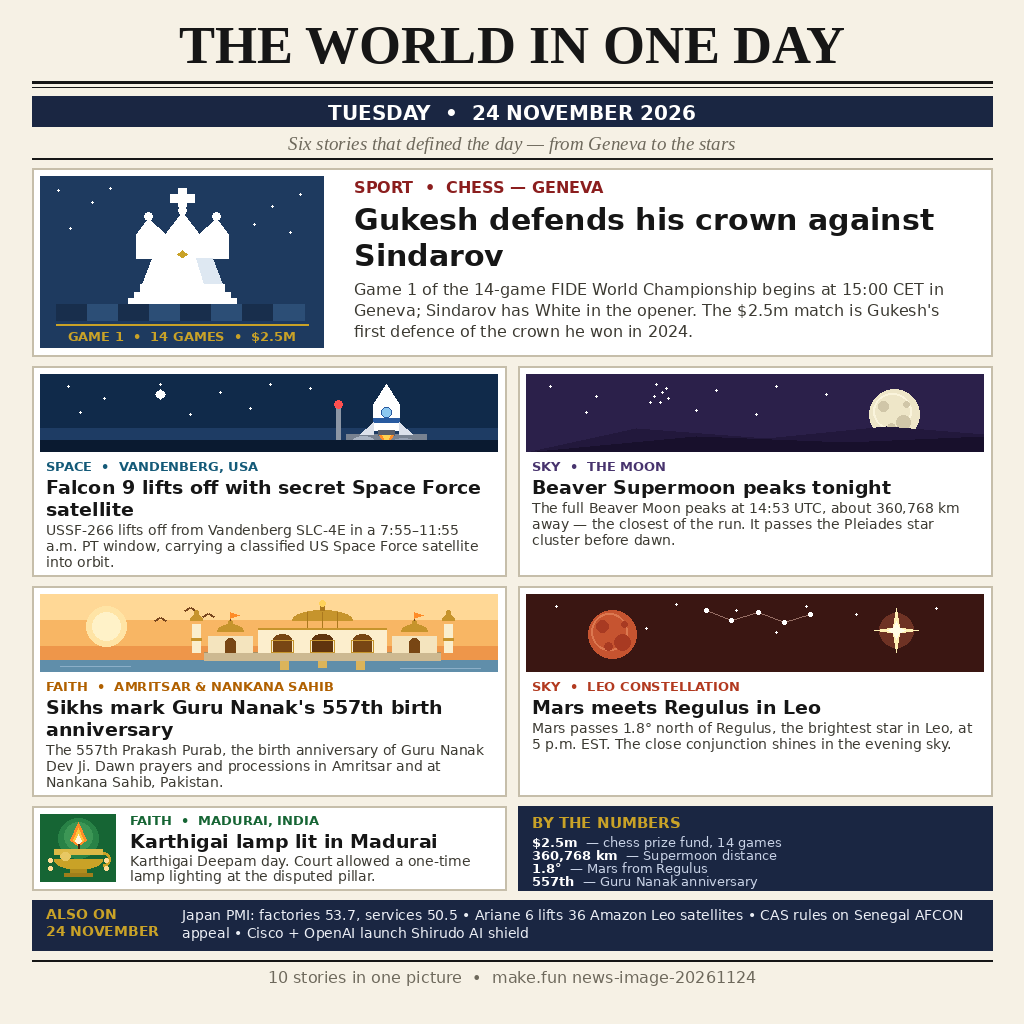
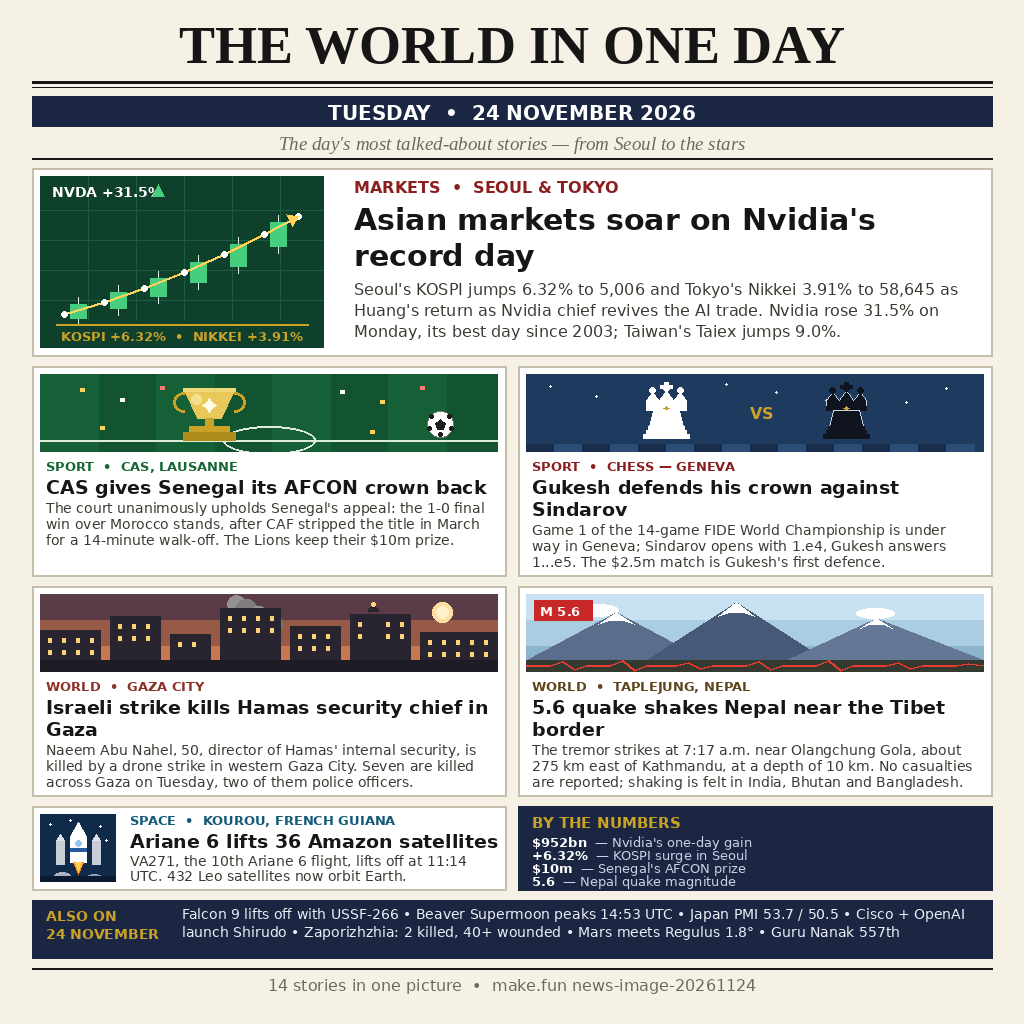
Add news-image-24nov-makefun

Changed region(s): [[0.0312, 0.125, 0.9688, 0.9688]]

diff --git a/main.ts b/main.ts
@@ -21,6 +21,19 @@ if (!png.subarray(0, 8).equals(SIGNATURE)) {
   throw new Error("entry.png is not a PNG file");
 }
 
+// A valid PNG header needs at least 33 bytes: the 8-byte signature plus
+// the 25-byte IHDR chunk. Anything shorter cannot hold width and height.
+if (png.length < 33) {
+  throw new Error(
+    `entry.png is too short to be a valid PNG: ${png.length} bytes`,
+  );
+}
+
+// The first chunk must be IHDR: its four-byte type lives at offsets 12-15.
+if (!png.subarray(12, 16).equals(Buffer.from("IHDR"))) {
+  throw new Error("entry.png is not a valid PNG: first chunk is not IHDR");
+}
+
 // The IHDR chunk holds the width and height as big-endian uint32 values
 // at byte offsets 16 and 20. The competition allows at most 1024x1024.
 const width = png.readUInt32BE(16);

diff --git a/README.md b/README.md
@@ -6,37 +6,45 @@
 
 Referral code: v8vnayfm — https://make.fun?ref=v8vnayfm
 
-One newspaper front page that sums up **Tuesday 24 November 2026** in six
-stories, drawn entirely in code as a single 1024×1024 PNG. Entry for
-make.fun's "Sum up 24 November's world news in one image" bounty
-($100 in USDC, 50 paid places).
+One newspaper front page that sums up **Tuesday 24 November 2026** in
+fourteen stories, drawn entirely in code as a single 1024×1024 PNG. Entry
+for make.fun's "Sum up 24 November's world news in one image" bounty
+($100 in USDC, 50 paid places). This is the fourth revision (v4): it leads
+with the day's most talked-about stories after v3 ranked 638 of 7,302 in
+round 1.
 
-## The six stories
+## The seven core stories
 
-1. **Chess** — Gukesh defends his crown against Sindarov: Game 1 of the
-   14-game FIDE World Championship begins in Geneva; Sindarov has White
-   against the defending champion.
-2. **Space** — Falcon 9 lifts off with a secret Space Force satellite:
-   USSF-266 launches from Vandenberg in a four-hour window, carrying a
-   classified payload for the US Space Force.
-3. **Sky** — Beaver Supermoon peaks tonight: the closest full moon,
-   360,768 km away, passes the Pleiades before dawn.
-4. **Faith** — Sikhs mark Guru Nanak's 557th birth anniversary: Prakash
-   Purab celebrated in Amritsar and Nankana Sahib, with dawn prayers.
-5. **Sky** — Mars meets Regulus in Leo: the red planet passes 1.8° from
-   Leo's brightest star at 5 p.m. EST.
-6. **Faith** — Karthigai lamp lit in Madurai: the Supreme Court allows a
-   one-time lighting at the disputed Thiruparankundram pillar, temple
-   team only.
+1. **Markets (lead)** — Asian markets soar on Nvidia's record day: Seoul's
+   KOSPI jumps 6.32% to 5,006, Tokyo's Nikkei 3.91% to 58,645 and Taiwan's
+   Taiex 9.0% as Jensen Huang's return as Nvidia chief revives the AI
+   trade. Nvidia rose 31.5% on Monday, its best day since 2003.
+2. **Sport** — CAS gives Senegal its AFCON crown back: the court
+   unanimously upholds Senegal's appeal, confirming the 1-0 final win over
+   Morocco after CAF stripped the title in March for a 14-minute walk-off.
+3. **Sport** — Gukesh defends his crown against Sindarov: Game 1 of the
+   14-game FIDE World Championship is under way in Geneva; Sindarov opens
+   with 1.e4, Gukesh answers 1...e5.
+4. **World** — Israeli strike kills Hamas security chief in Gaza: Naeem Abu
+   Nahel, 50, director of Hamas' internal security, is killed by a drone
+   strike in western Gaza City; seven are killed across Gaza on Tuesday.
+5. **World** — 5.6 quake shakes Nepal near the Tibet border: the tremor
+   strikes at 7:17 a.m. near Olangchung Gola, about 275 km east of
+   Kathmandu; no casualties are reported.
+6. **Space** — Ariane 6 lifts 36 Amazon Leo satellites: VA271, the 10th
+   Ariane 6 flight, lifts off at 11:14 UTC from Kourou; 432 Leo satellites
+   now orbit Earth.
+7. **By the numbers** — $952bn (Nvidia's one-day gain), +6.32% (KOSPI
+   surge), $10m (Senegal's AFCON prize), 5.6 (Nepal quake magnitude).
 
-All six were first reported or happened on 24 November 2026, and none of
-them appears in the 23 November entry. Stories first reported on 20–23
-November were left out on purpose: the Japan oil task force was announced
-on 17 November, the India–China border talks were reported on 22 November,
-the Shroud of Turin DNA study dates from July, and BepiColombo entered
-Mercury orbit on 21 November. Japan's November flash PMIs were also left
-out: the release was scheduled for 24 November, but no reliable source had
-confirmed the actual numbers when this page was drawn.
+## Also on 24 November
+
+Falcon 9 lifts off with USSF-266 · Beaver Supermoon peaks 14:53 UTC ·
+Japan PMI 53.7 / 50.5 · Cisco + OpenAI launch Shirudo · Zaporizhzhia: 2
+killed, 40+ wounded · Mars meets Regulus 1.8° · Guru Nanak 557th.
+
+All fourteen were first reported or happened on 24 November 2026, and none
+of them appears in the 23 November entry.
 
 ## How it is made
 
